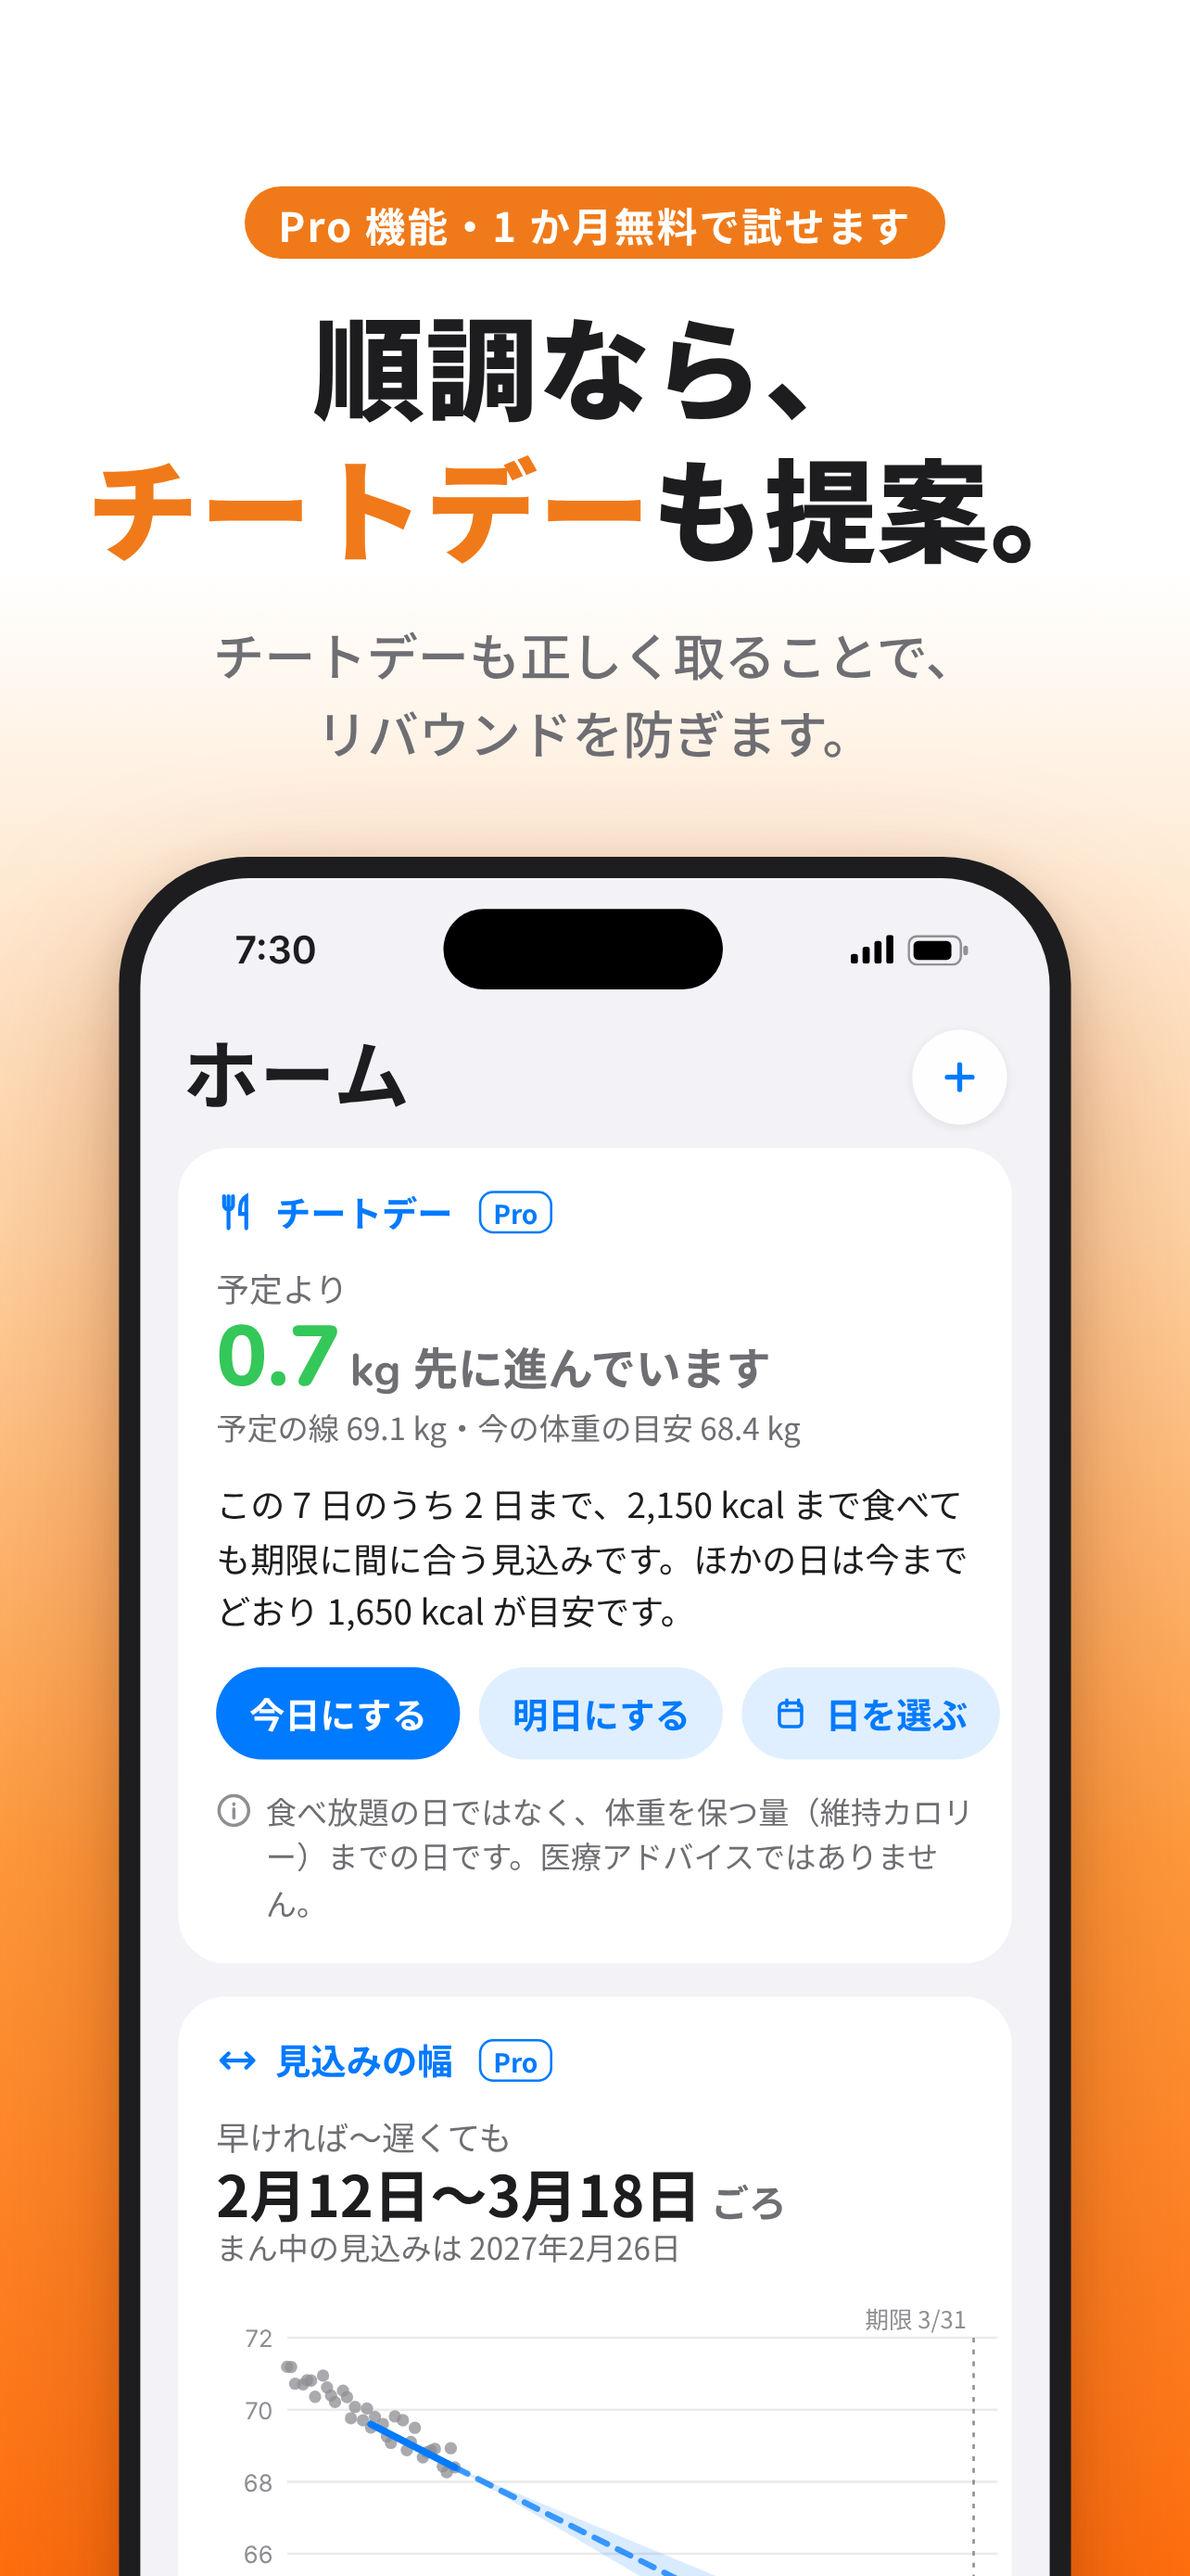
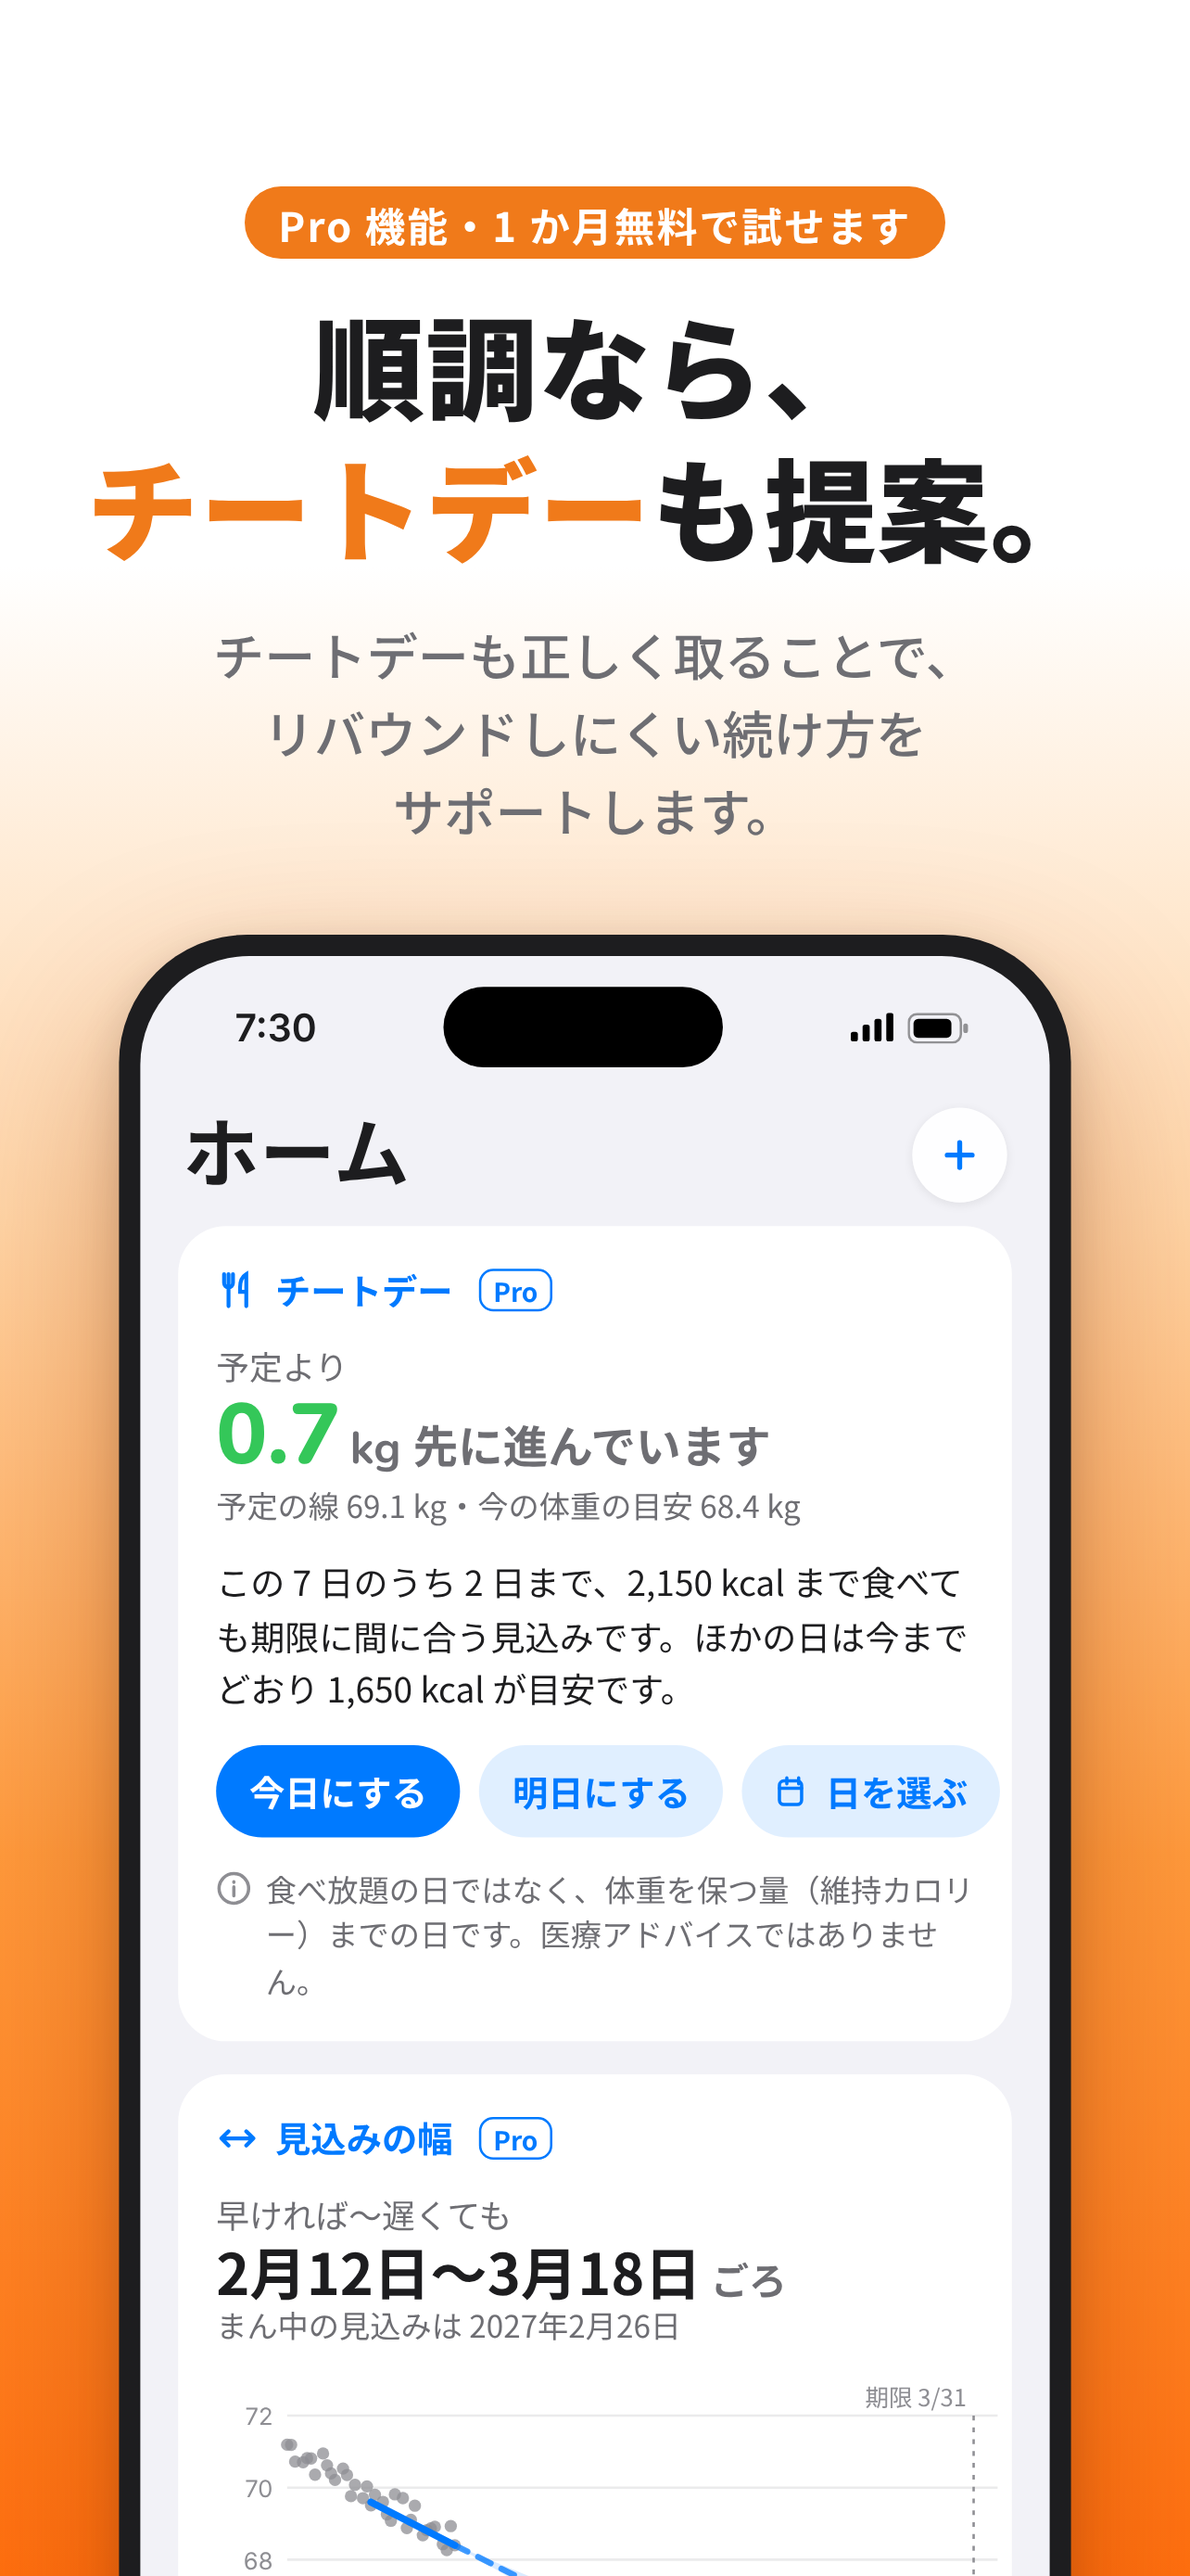
チートデーの画像の一文を「リバウンドしにくい続け方をサポートします」に
効果を約束する言い方（リバウンドを防ぎます）は審査で根拠のない健康効果と見られるおそれがあるため。

Claude-Session: https://claude.ai/code/session_01HgqWwdhngGoEstZSiSDXaE

diff --git a/docs/app-store/source/screens.html b/docs/app-store/source/screens.html
@@ -254,7 +254,7 @@ const shots = {
     },
   },
   5: { // Pro
-    pro: true, h: `順調なら、<br><em>チートデー</em>も提案。`, p: `チートデーも正しく取ることで、<br>リバウンドを防ぎます。`,
+    pro: true, h: `順調なら、<br><em>チートデー</em>も提案。`, p: `チートデーも正しく取ることで、<br>リバウンドしにくい続け方を<br>サポートします。`,
     screen: () => `${status()}<div>${nav("ホーム")}</div><div class="content">
       ${card("チートデー", I.fork, `${metric("予定より", "0.7", "kg 先に進んでいます", "large", { color: "#34C759", caption: "予定の線 69.1 kg・今の体重の目安 68.4 kg" })}
         <div class="text" style="font-size:14.5px">この 7 日のうち 2 日まで、2,150 kcal まで食べても期限に間に合う見込みです。ほかの日は今までどおり 1,650 kcal が目安です。</div>
